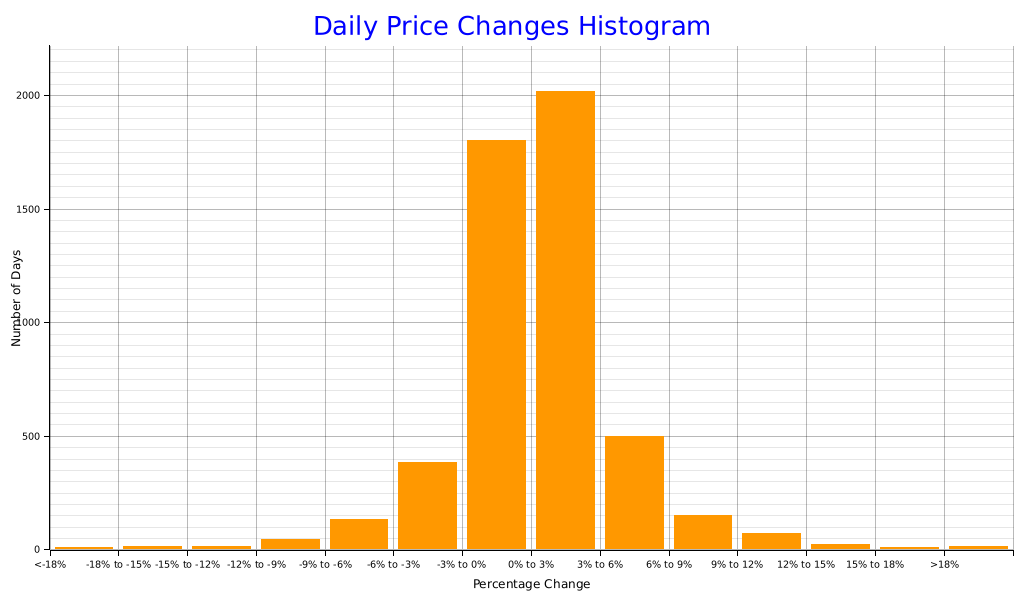
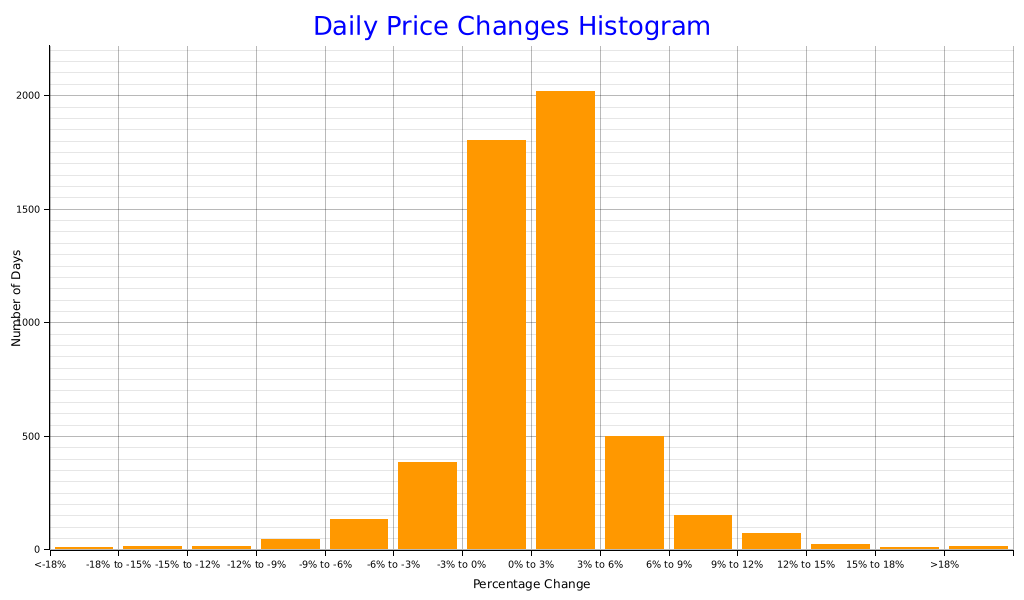
deploy: f2163d761afb89bcd055eb3b1c56ca82929363b8

diff --git a/index.html b/index.html
@@ -34,7 +34,7 @@
           <td>97,860.60</td>
           <td>60,074.20</td>
           <td></td>
-          <td>2,269,138,649,088.0</td>
+          <td>2,302,457,413,632.0</td>
         </tr>
         <tr>
           <td class='yearly-summary-year'>2025</td>
@@ -198,7 +198,7 @@
         </tr>
         <tr>
           <td>0% to 3%</td>
-          <td>2016</td>
+          <td>2017</td>
         </tr>
         <tr>
           <td>3% to 6%</td>
@@ -226,7 +226,7 @@
         </tr>
         <tr class='histogram-footer'>
           <td>Total Days</td>
-          <td>5185</td>
+          <td>5186</td>
         </tr>
       </tbody>
     </table>
@@ -235,7 +235,7 @@
     <br><br>
     <a href='https://github.com/bitcoin-tools/btracker'>Link to the report codebase</a>
     <br><br>
-    This report was last updated at 2026-02-19 05:47:19.346409767 UTC.
+    This report was last updated at 2026-02-19 07:03:50.378424310 UTC.
     <br><br>
     <div class='scrollable-table'>
       <table>
@@ -257,14 +257,26 @@
           <tr>
             <td>2026-02-19</td>
             <td>66,441.85</td>
-            <td>66,998.67</td>
+            <td>67,177.70</td>
             <td>66,375.88</td>
-            <td>66,770.57</td>
-            <td class='wma-column'>58,260.96</td>
-            <td>18.14 (0.03 %)</td>
-            <td>25,396.19 (61.3 %)</td>
-            <td>622.79 (0.9 %)</td>
-            <td>-723.64 (-1.0 %)</td>
+            <td>67,137.50</td>
+            <td class='wma-column'>58,279.73</td>
+            <td>19.00 (0.03 %)</td>
+            <td>26,610.13 (65.6 %)</td>
+            <td>801.82 (1.1 %)</td>
+            <td>712.17 (1.0 %)</td>
+          </tr>
+          <tr>
+            <td>2026-02-18</td>
+            <td>67,488.02</td>
+            <td>68,434.42</td>
+            <td>65,845.89</td>
+            <td>66,425.32</td>
+            <td class='wma-column'>58,260.73</td>
+            <td>17.90 (0.03 %)</td>
+            <td>25,050.94 (60.5 %)</td>
+            <td>2,588.53 (3.8 %)</td>
+            <td>-1,068.89 (-1.5 %)</td>
           </tr>
           <tr>
             <td>2026-02-17</td>
